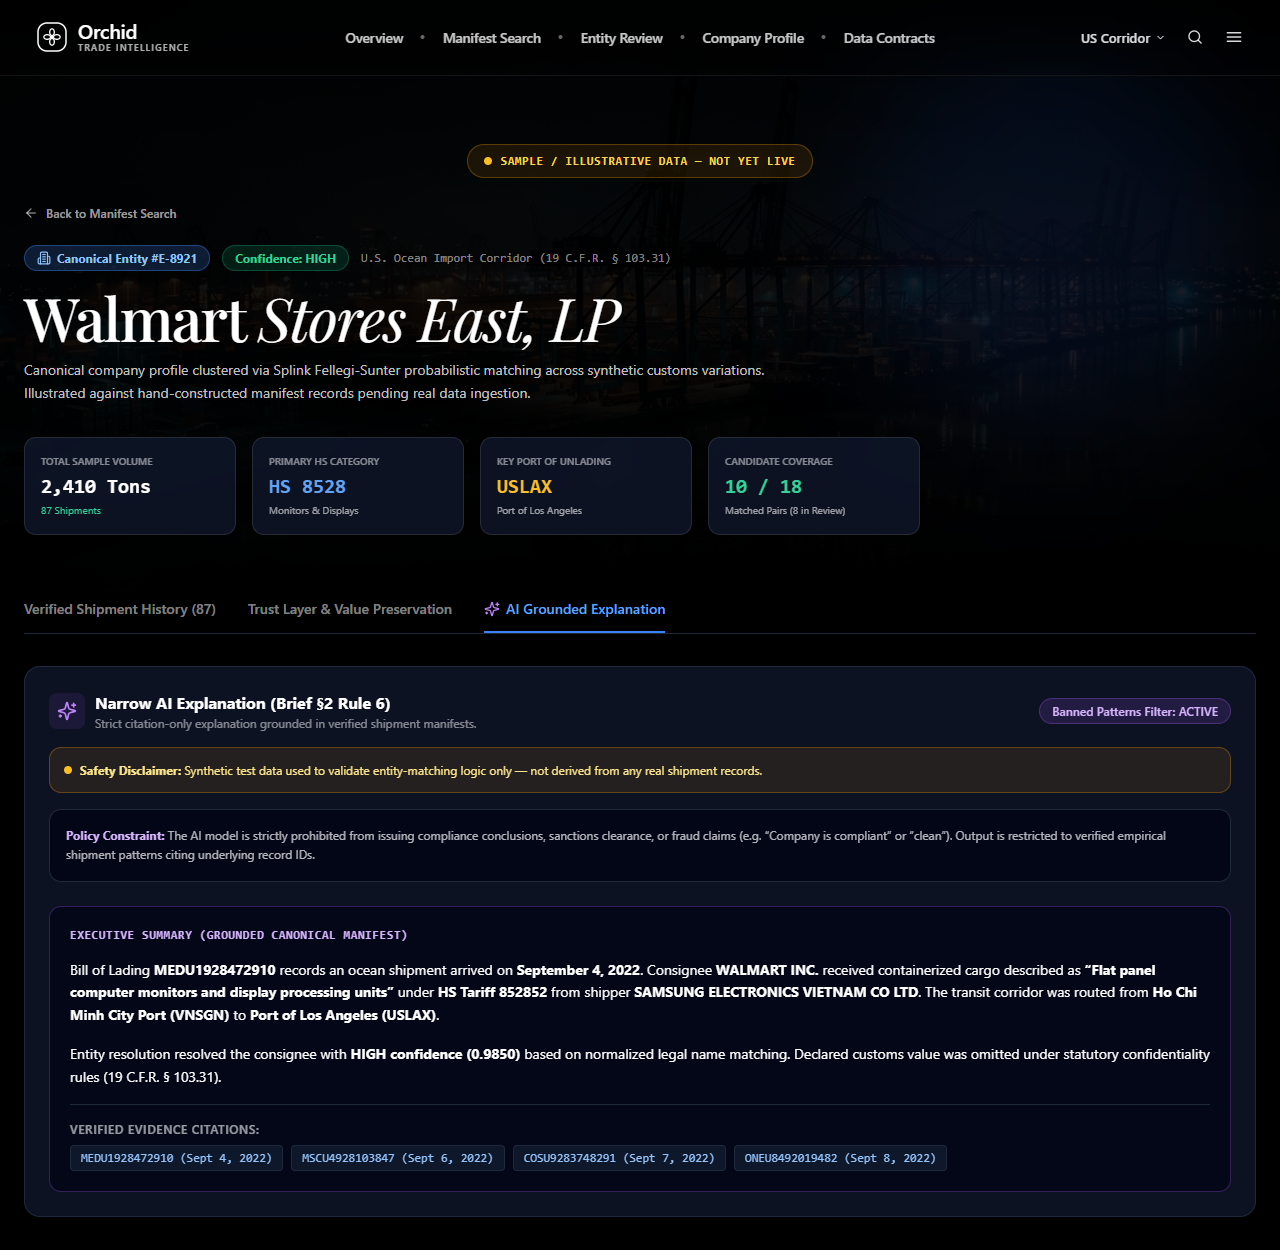
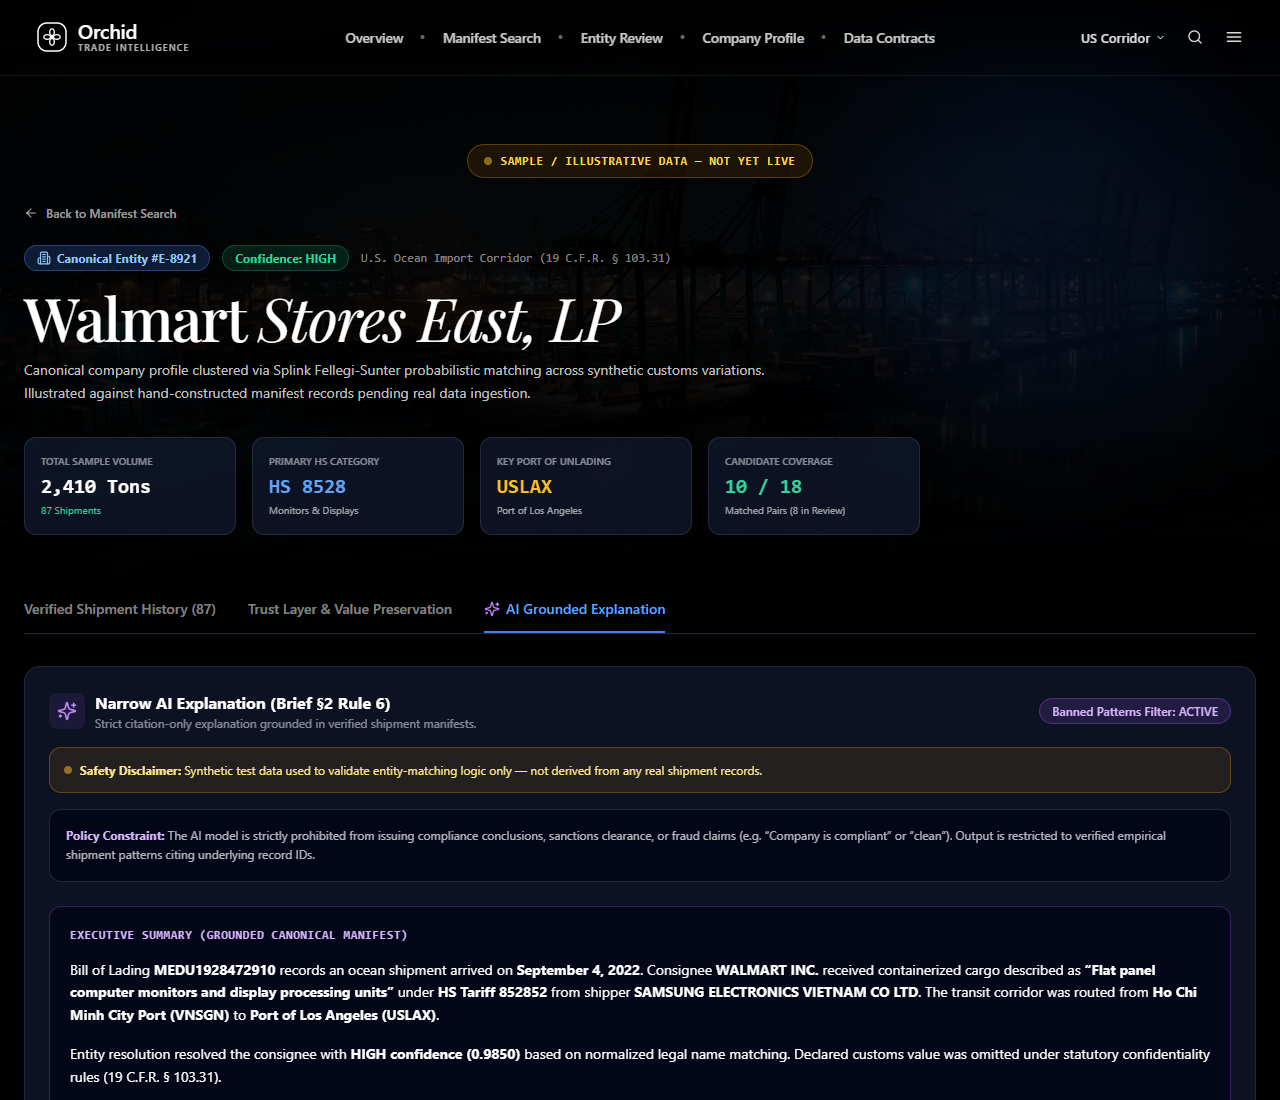
docs(demo): add demo recovery contingency guide, update verified screenshots and gitignore

diff --git a/docs/if_something_breaks.md b/docs/if_something_breaks.md
@@ -1,0 +1,66 @@
+# Trade Intelligence Platform — Demo Contingency & Recovery Card
+**Purpose:** Quick-reference troubleshooting guide for the presenter during live stakeholder demos. Keep this card handy during the screen-share.
+
+---
+
+## 1. Golden Rules During a Live Demo Stumble
+1. **Never go silent.** Acknowledge and reframe immediately:
+   > *"Let me do a quick refresh — remember, this entire multi-database stack is running locally in containerized dev mode on this laptop, so occasionally the local dev server compiles routes on demand."*
+2. **If a page takes 3–5 seconds on first click:**
+   > *"Next.js compiles server components on first request in dev mode — in cloud production this is pre-built statically."*
+3. **If a container needs a restart:**
+   > Keep your browser open on a working tab (like Overview or Search), switch to your backup terminal, run the specific single-container restart, and refresh in 5 seconds.
+
+---
+
+## 2. Emergency 1-Line Service Restarts (Run in PowerShell)
+
+| Service | Impact | Instant Restart Command |
+|---|---|---|
+| **Frontend (Next.js)** | UI not responding / 500 error | `docker restart ti_frontend` |
+| **PostgreSQL** | Audit or review queue not saving | `docker restart ti_postgres` |
+| **ClickHouse** | Analytics/Manifest queries stall | `docker restart ti_clickhouse` |
+| **MinIO** | File preview / raw manifest store down | `docker restart ti_minio` |
+| **OpenSearch** | Search indexing unresponsive | `docker restart ti_opensearch` |
+| **Keycloak** | Auth tokens or login issues | `docker restart ti_keycloak` |
+| **Dagster** | Pipeline orchestrator UI down | `docker restart ti_dagster_webserver` |
+| **Prometheus / Grafana** | Telemetry metrics down | `docker restart ti_prometheus ti_grafana` |
+
+### Full Nuclear Stack Restart (if Docker hangs entirely)
+```powershell
+docker restart ti_postgres ti_clickhouse ti_minio ti_opensearch ti_keycloak ti_frontend ti_dagster_webserver ti_grafana ti_prometheus
+```
+*(Takes ~15 seconds to be fully responsive)*
+
+---
+
+## 3. What to Say: Scenario-by-Scenario Scripts
+
+### Scenario A: Browser shows a blank white page or Next.js spinning
+* **Action:** Press `Ctrl + F5` (Hard Reload).
+* **Script:**
+  > *"Just triggering a hard refresh — Next.js hot module reloading occasionally holds a stale client socket when switching tabs in local dev. The backend datastores are continuously active."*
+
+### Scenario B: Evidence API or Search returns empty or stalls
+* **Action:** Click back to **Overview**, then return to **Search**.
+* **Script:**
+  > *"Let's re-query the search cache. Notice how the contract guardrail safely returns empty rather than corrupt data when an edge timeout occurs."*
+
+### Scenario C: Stakeholder asks "Why is that badge amber?"
+* **Action:** Point directly at the badge with your cursor.
+* **Script:**
+  > *"That is our platform's built-in Truth in Advertising contract. As stated in our opening, we are running against synthetic benchmark records modeled on the September 2022 CBP schema while our Trademo AWS subscription completes vendor review. The UI is hard-coded to warn analysts whenever data is not yet live production."*
+
+### Scenario D: Stakeholder asks "Can we see real company data right now?"
+* **Action:** Keep your calm, reference the hot-swap checklist.
+* **Script:**
+  > *"The pipeline, entity resolution, and UI are 100% built and verified today. We have a documented 1-day hot-swap checklist ready to ingest the actual Trademo dump the moment AWS activates the data feed."*
+
+---
+
+## 4. Emergency Backup Visuals (If Laptop Screen Fails)
+All 4 primary screens have real Playwright Edge DOM captures saved on disk:
+- `frontend/public/screenshots/index_evidence_real_browser.png`
+- `frontend/public/screenshots/search_real_browser.png`
+- `frontend/public/screenshots/company_ai_explain_real_browser.png`
+- `frontend/public/screenshots/review_real_browser.png`
